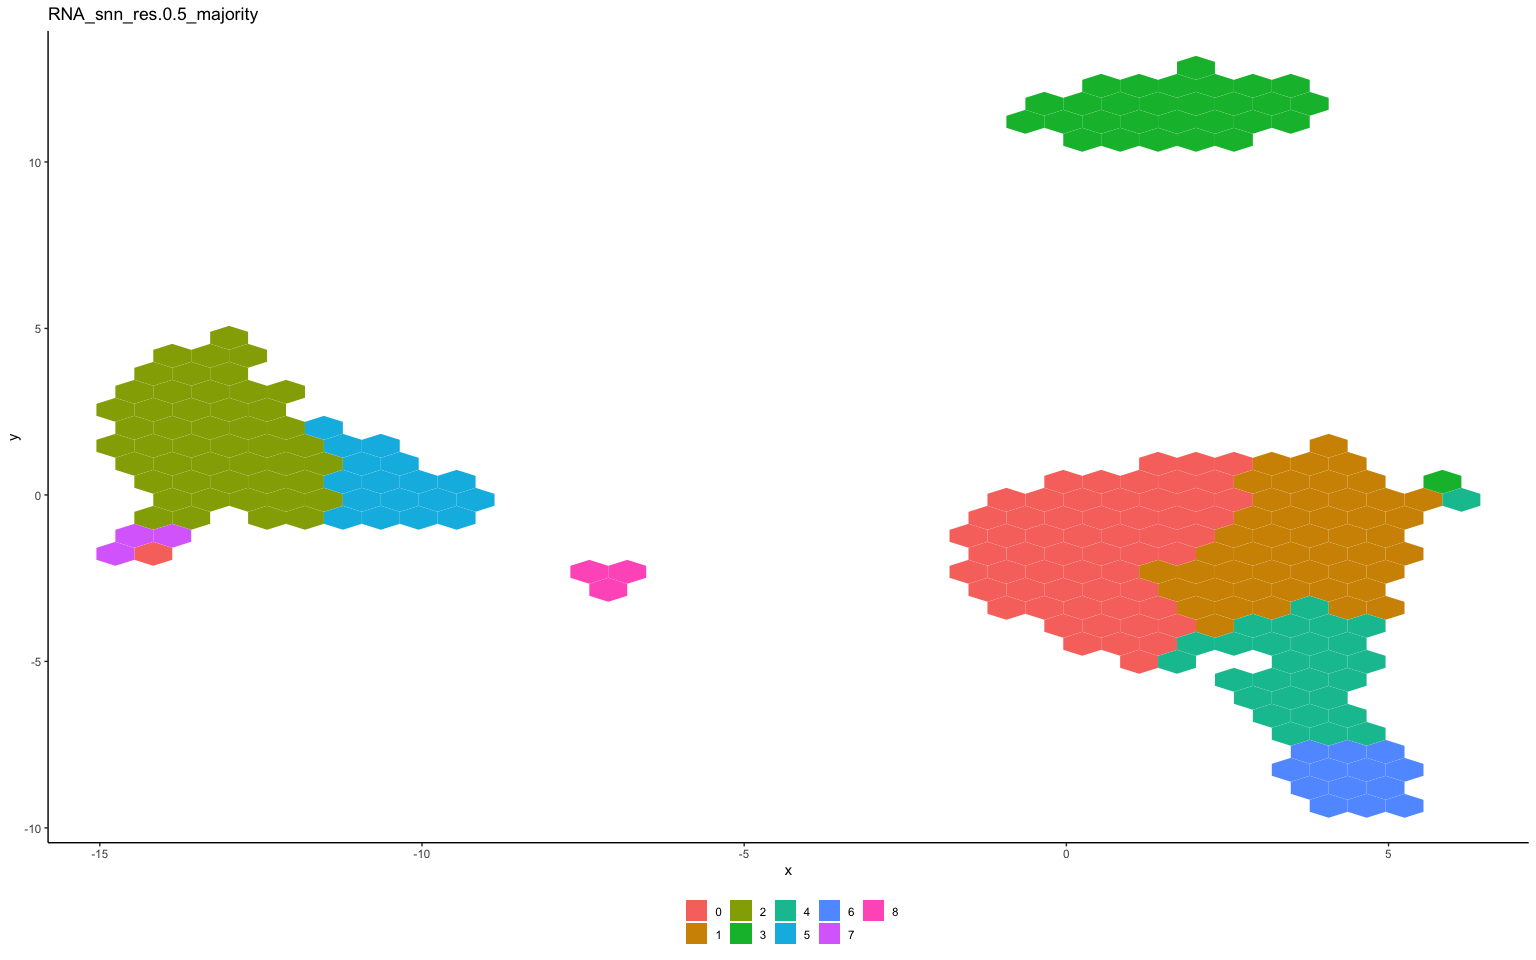
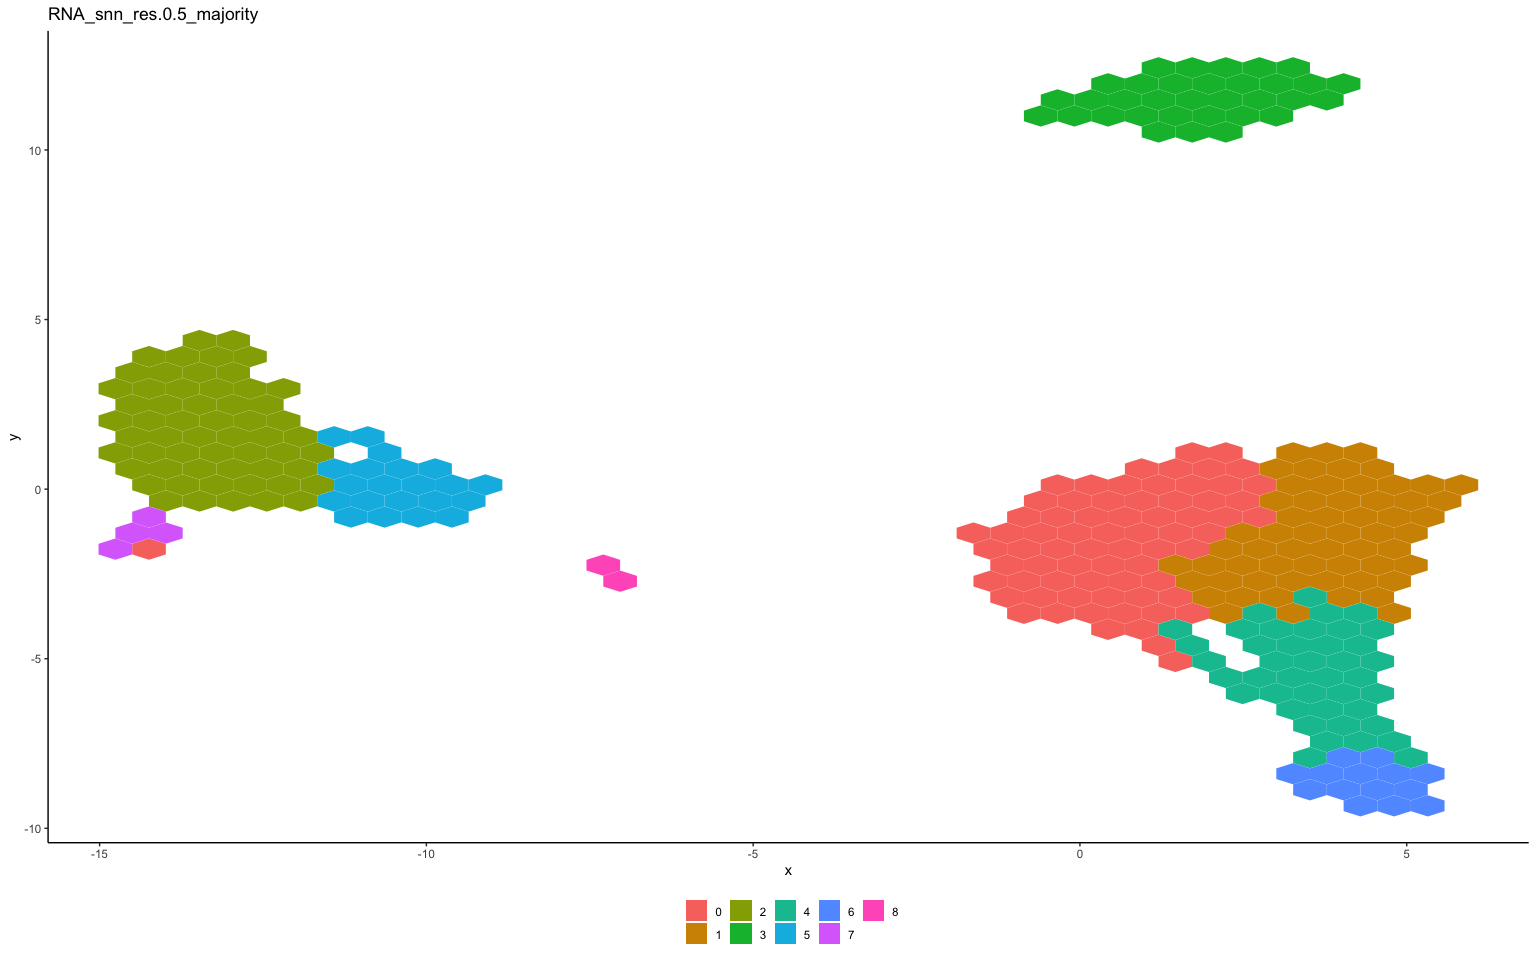
change nbins

diff --git a/docs/schex.md b/docs/schex.md
@@ -1,6 +1,6 @@
 Using schex with Seurat
 ================
-Compiled: July 30, 2019
+Compiled: August 07, 2019
 
 This vigettte demonstrates how to run schex on Seurat objects, which aims to provide better plots. If you use schex, please cite:
 
@@ -10,7 +10,7 @@ This vigettte demonstrates how to run schex on Seurat objects, which aims to pro
 >
 > doi: [0.1242/dev.173807](https://doi.org/0.1242/dev.173807)
 >
-> Website: <https://github.com/SaskiaFreytag/schex>
+> Github: <https://github.com/SaskiaFreytag/schex>
 
 Reduced dimension plotting is one of the essential tools for the analysis of single cell data. However, as the number of cells/nuclei in these these plots increases, the usefulness of these plots decreases. Many cells are plotted on top of each other obscuring information, even when taking advantage of transparency settings. This package provides binning strategies of cells/nuclei into hexagon cells. Plotting summarized information of all cells/nuclei in their respective hexagon cells presents information without obstructions. The package seemlessly works with the two most common object classes for the storage of single cell data; `SingleCellExperiment` from the [SingleCellExperiment](https://bioconductor.org/packages/3.9/bioc/html/SingleCellExperiment.html) package and `Seurat` from the [Seurat](https://satijalab.org/seurat/) package. In this vignette I will be presenting the use of `schex` for `Seurat` objects.
 
@@ -25,10 +25,10 @@ Prerequisites to install that are not available via `install.packages`:
 ``` r
 library(Seurat)
 library(SeuratData)
-library(schex)
 library(ggplot2)
 library(ggrepel)
 theme_set(theme_classic())
+library(schex)
 ```
 
 Setup single cell data
@@ -110,10 +110,10 @@ At this stage in the workflow we usually would like to plot aspects of our data 
 
 #### Calculate hexagon cell representation
 
-First, I will calculate the hexagon cell representation for each cell for a specified dimension reduction representation. I decide to use `nbins=35` which specifies that I divide my x range into 40 bins. Note that this might be a parameter that you want to play around with depending on the number of cells/ nuclei in your dataset. Generally, for more cells/nuclei, `nbins` should be increased.
+First, I will calculate the hexagon cell representation for each cell for a specified dimension reduction representation. I decide to use `nbins=40` which specifies that I divide my x range into 40 bins. Note that this might be a parameter that you want to play around with depending on the number of cells/ nuclei in your dataset. Generally, for more cells/nuclei, `nbins` should be increased.
 
 ``` r
-pbmc <- make_hexbin(pbmc, nbins = 35, dimension_reduction = "UMAP")
+pbmc <- make_hexbin(pbmc, nbins = 40, dimension_reduction = "UMAP")
 ```
 
 #### Plot number of cells/nuclei in each hexagon cell
